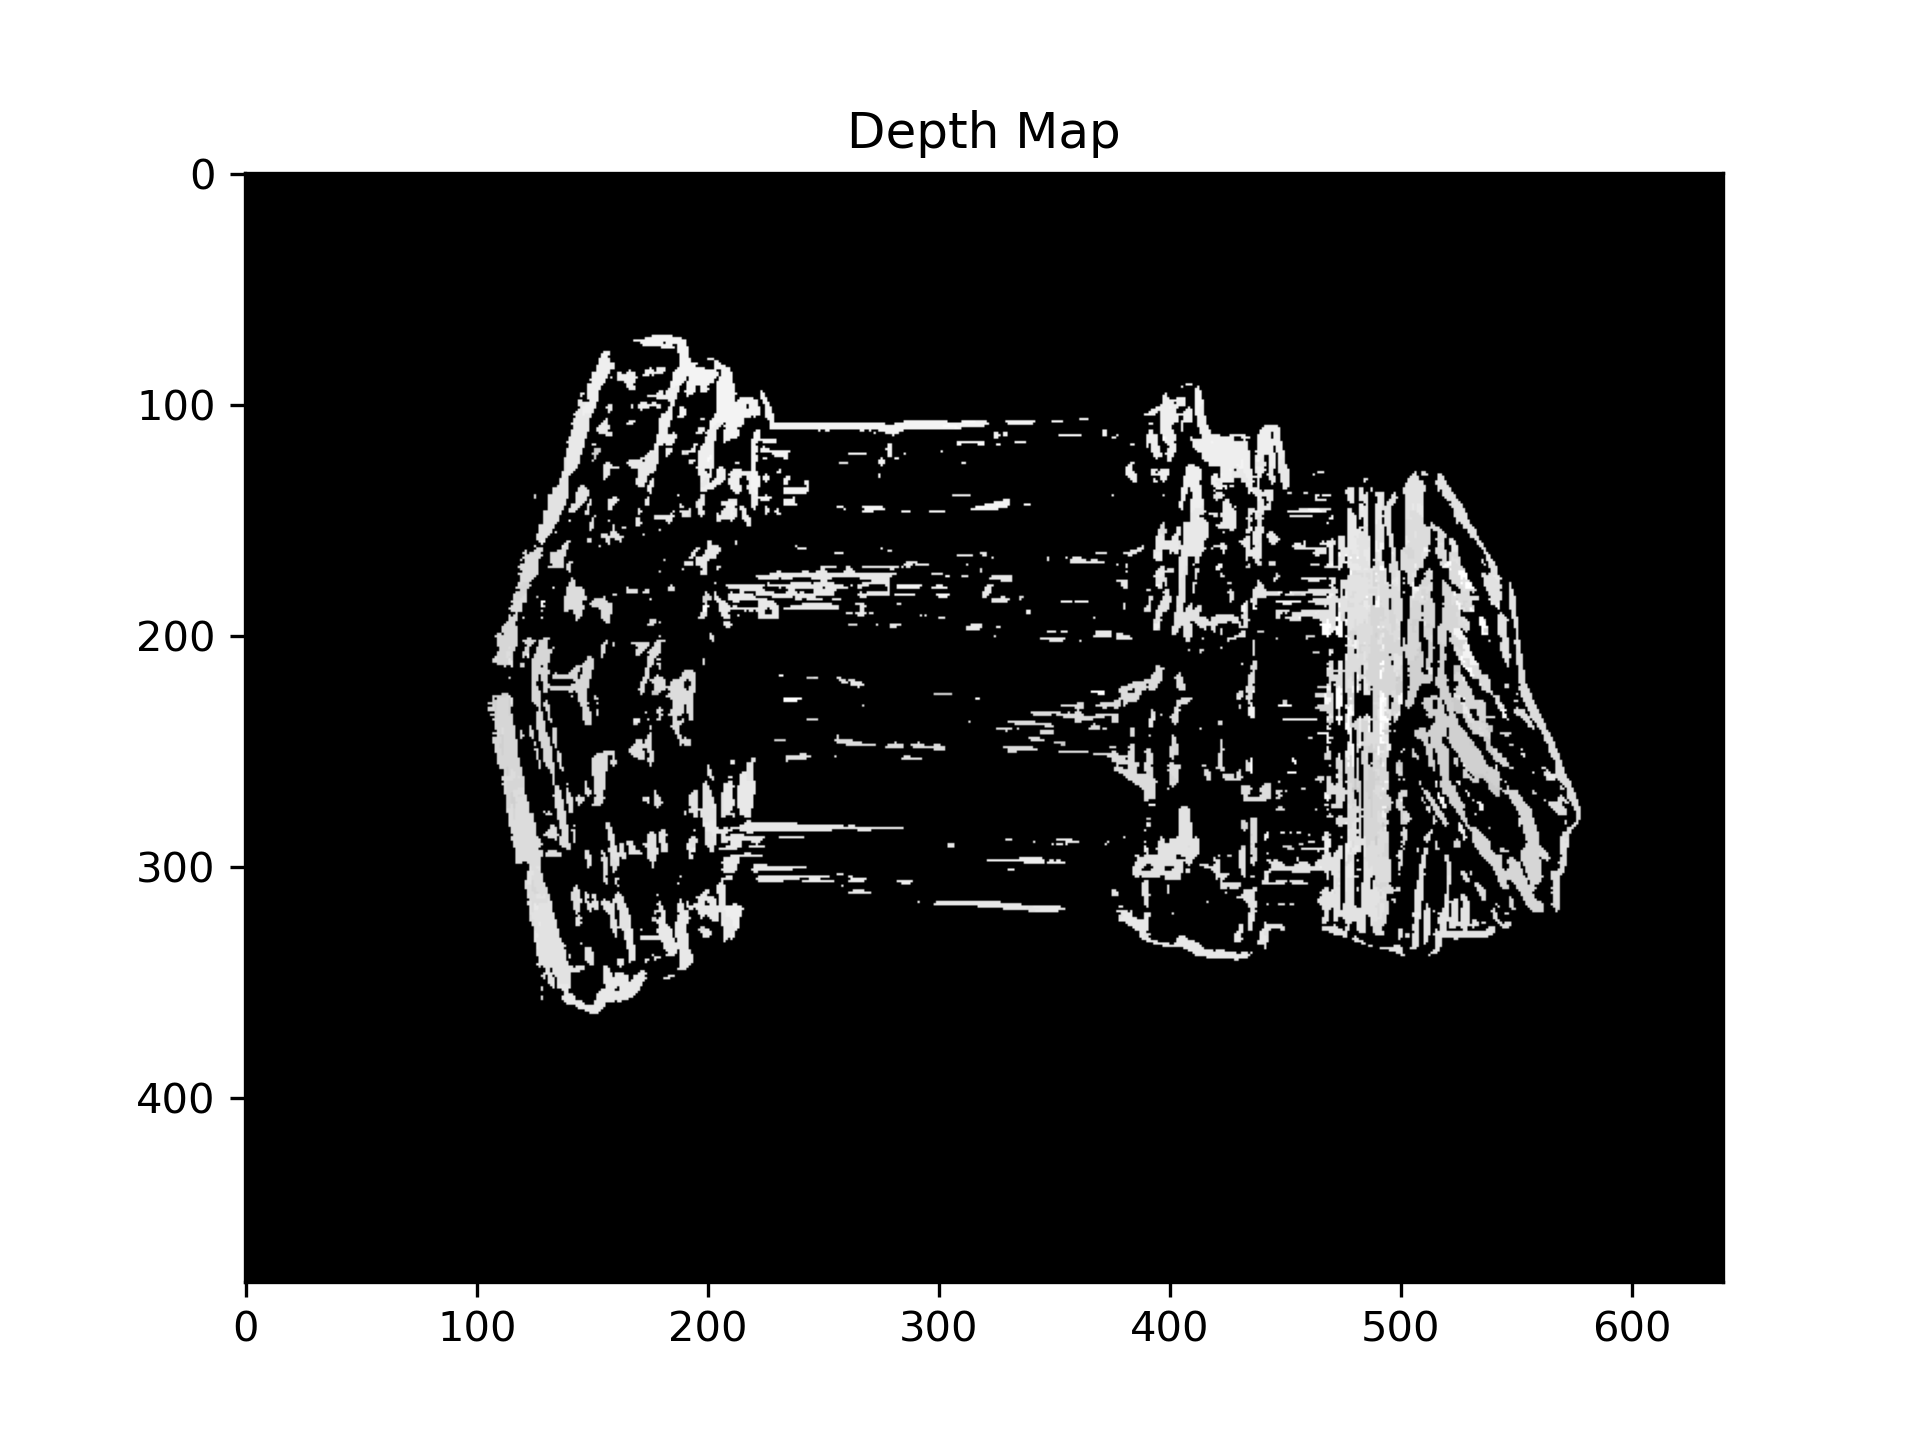
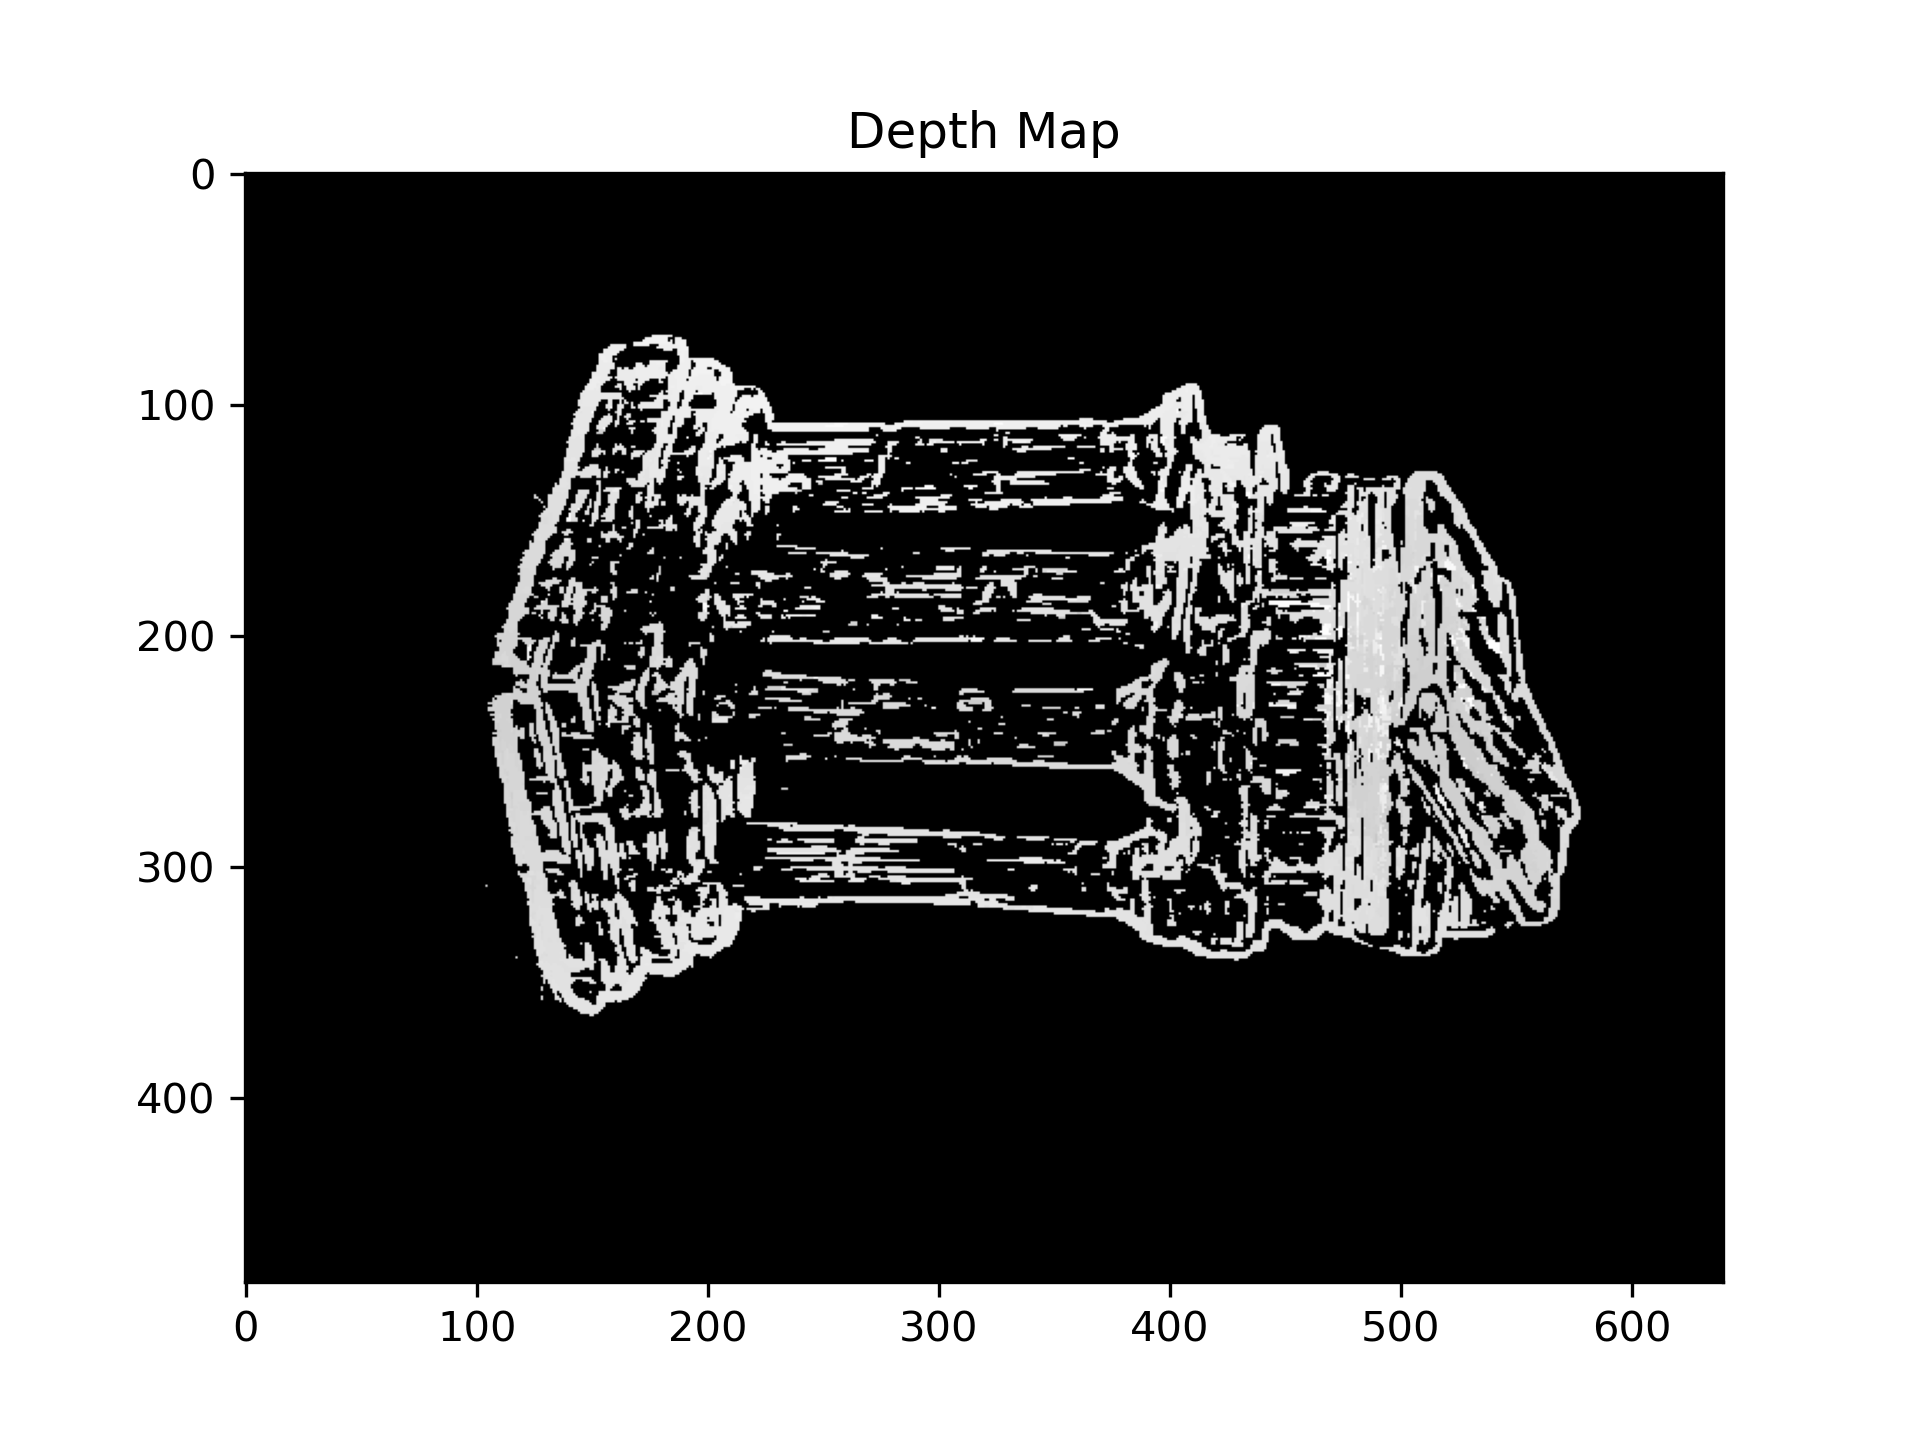
backup

Changed region(s): [[0.25, 0.2188, 0.8125, 0.7188]]

diff --git a/project5/python/multiViewStereo.py b/project5/python/multiViewStereo.py
@@ -36,7 +36,7 @@ def Get3dCoord(q, I0, d):
     q_new = np.array([d*x, d*y, d])
 
     P_inverse = np.linalg.inv(I0["P"][:,:-1]) 
-    p_3d = P_inverse @ (q_new - I0["P"][:,-1])
+    p_3d = np.dot(P_inverse, (q_new - I0["P"][:,-1]))
 
     return p_3d
 
@@ -70,8 +70,8 @@ def ComputeConsistency(I0, I1, X):
 
     X = np.vstack((X, np.ones((1, num_points))))
     #print(I0["P"].shape,X.shape)
-    projected_coords_I0 = I0["P"] @ X
-    projected_coords_I1 = I1["P"] @ X
+    projected_coords_I0 = np.dot(I0["P"], X)
+    projected_coords_I1 = np.dot(I1["P"], X)
     #print(I0["mat"].shape)
     
     C0 = np.zeros((num_points, 3))
@@ -82,16 +82,17 @@ def ComputeConsistency(I0, I1, X):
         x1, y1 = projected_coords_I1[:2, i] / projected_coords_I1[2, i]
         try:
             C0[i] = I0["mat"][int(y0), int(x0)]
-        except Exception as e:
-            C0[i] = [0,0,0]
-            # print(X[:,i])
-            # print(projected_coords_I0[:, i])
-            # print(y0,x0)
+        # except Exception as e:
+        #     C0[i] = [0,0,0]
+        #     # print(X[:,i])
+        #     # print(projected_coords_I0[:, i])
+        #     # print(y0,x0)
             
-        try:
+        # try:
             C1[i] = I1["mat"][int(y1),int(x1)]
         except Exception as e:
-            C1[i] = [0,0,0]
+            return -np.inf
+            # C1[i] = [0,0,0]
             # print(X[:,i])
             # print(projected_coords_I1[:, i])
             # print(y1,x1)
@@ -127,7 +128,8 @@ def DepthmapAlgorithm(I0, I1, I2, I3, min_depth, max_depth, depth_step, S=5, con
                 score01 = ComputeConsistency(I0, I1, X)
                 score02 = ComputeConsistency(I0, I2, X)
                 score03 = ComputeConsistency(I0, I3, X)
-
+                if score01 == -np.inf or score02 ==-np.inf or score03 == -np.inf:
+                    continue
                 avg_consistency_score = np.mean([score01, score02, score03])
 
                 # Update best depth if the consistency score is higher
@@ -186,10 +188,11 @@ if __name__ == "__main__":
     min_depth = np.min(depth_values)
     max_depth = np.max(depth_values)
 
-    depth_step = (max_depth-min_depth)/10
+    depth_step = (max_depth-min_depth)/25
     d = DepthmapAlgorithm(images[0], images[1], images[2], images[3], min_depth, max_depth, depth_step, S=5, consistency_threshold=0.7)
     
     gray_image = cv2.cvtColor(images[0]["mat"] , cv2.COLOR_RGB2GRAY)
+
     plt.figure()
     plt.imshow(d * (gray_image > 40), cmap='gray')
     plt.axis('image')
